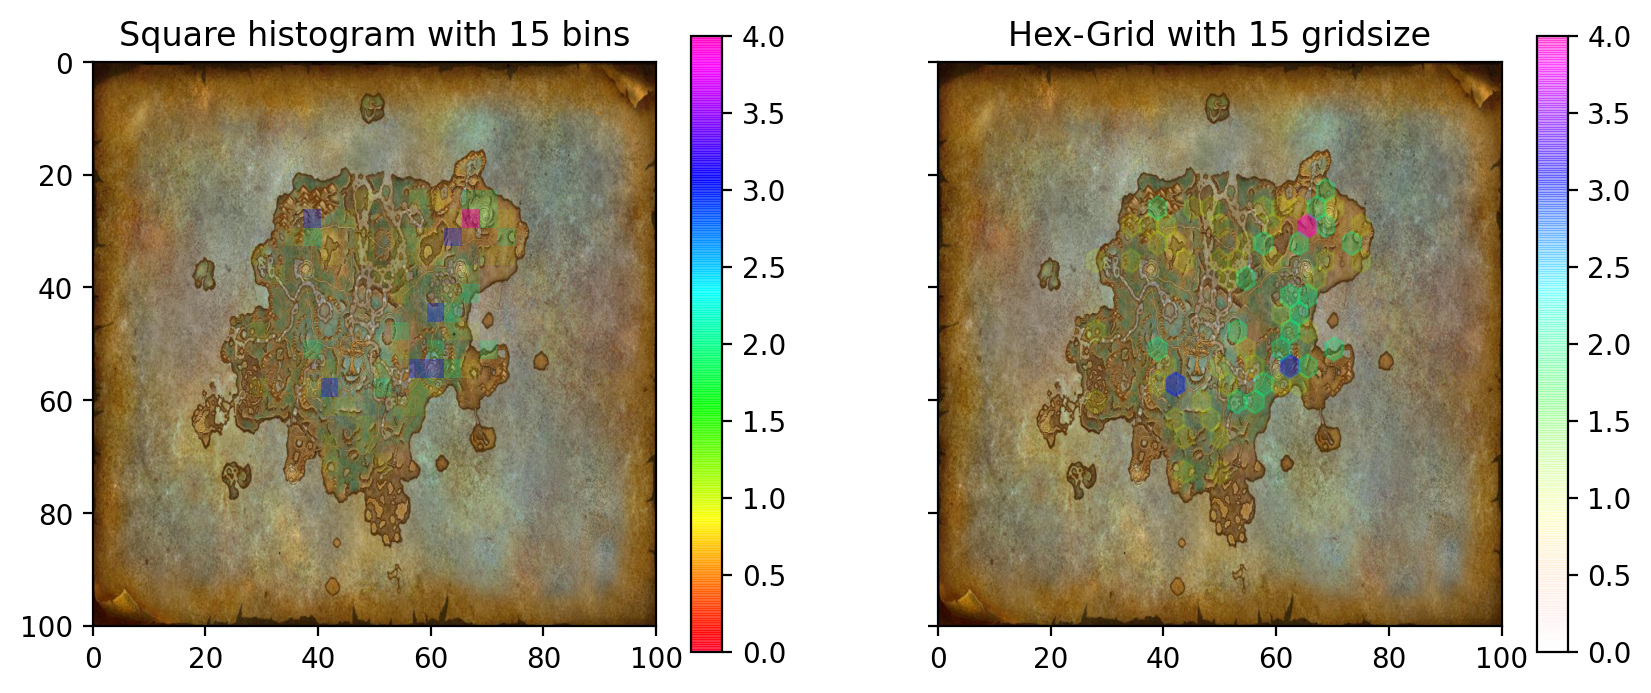
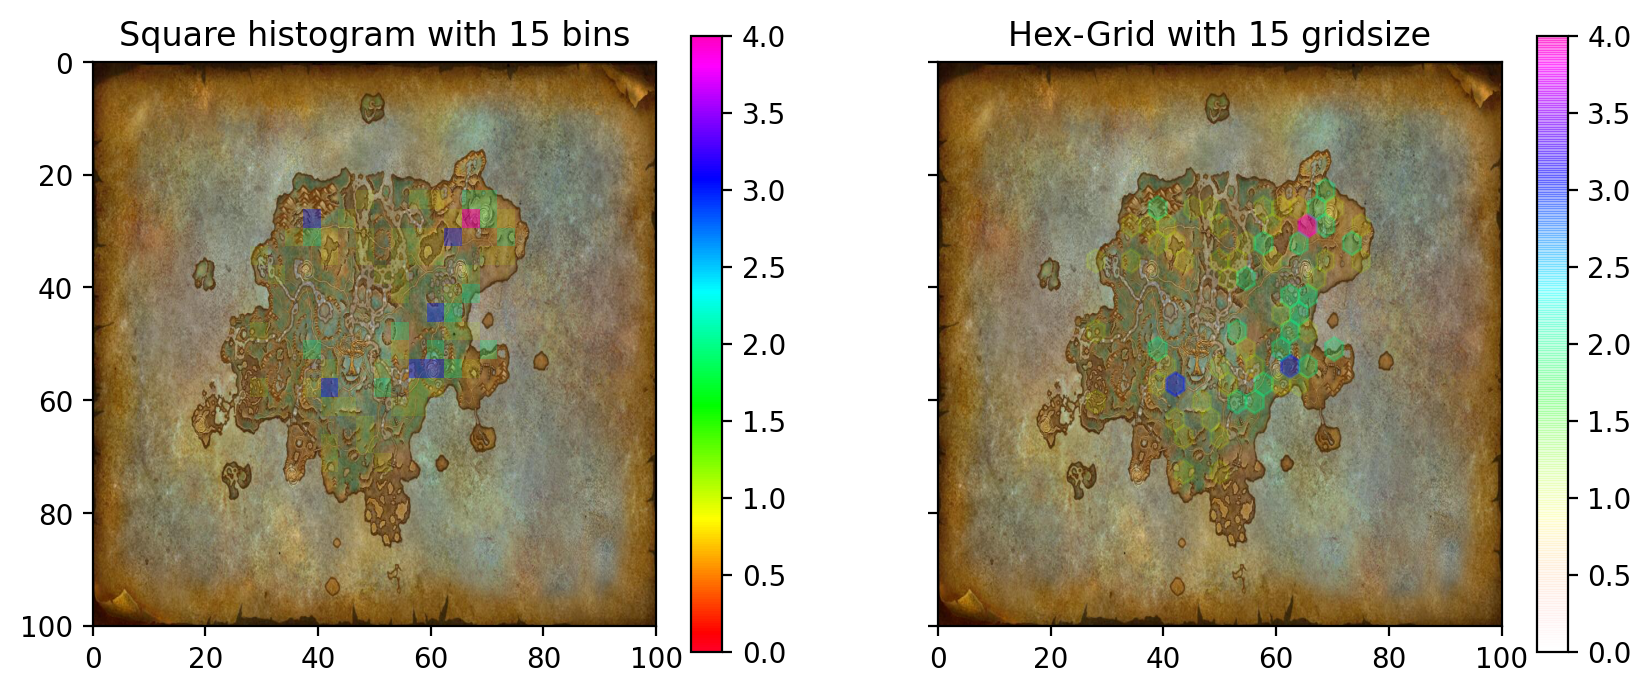
Update stats and alpha

Changed region(s): [[0.4016, 0.0606, 0.4325, 0.9394]]

diff --git a/main.py b/main.py
@@ -147,7 +147,7 @@ def parse_tag(tags: List[str], datasource: ZamimgDatasource):
         binsize = 15
         heatmap, xedges, yedges = np.histogram2d(x, y, bins=binsize)
         extent = [xedges[0], xedges[-1], yedges[0], yedges[-1]]
-        square_plot = ax1.imshow(heatmap.T, extent=extent, origin='lower', cmap=mycmap, alpha=.8)
+        square_plot = ax1.imshow(heatmap.T, extent=extent, origin='lower', cmap=mycmap, alpha=1)
         ax1.set_title('Square histogram with %d bins' % binsize)
         fig.colorbar(square_plot, ax=ax1)
         # alternate way to perform heat map
@@ -164,9 +164,10 @@ def parse_tag(tags: List[str], datasource: ZamimgDatasource):
         fig.canvas.set_window_title(map_db[map_uid].name)
 
         plt.savefig(os.path.join(path, f"{map_db[map_uid].name}-{output_name}.png"), bbox_inches='tight', dpi=fig.dpi)
+        plt.show()
         fig.clf()
         plt.close(fig)
-    # plt.show()
+
 
     # Output stats to file
     counts = {}
